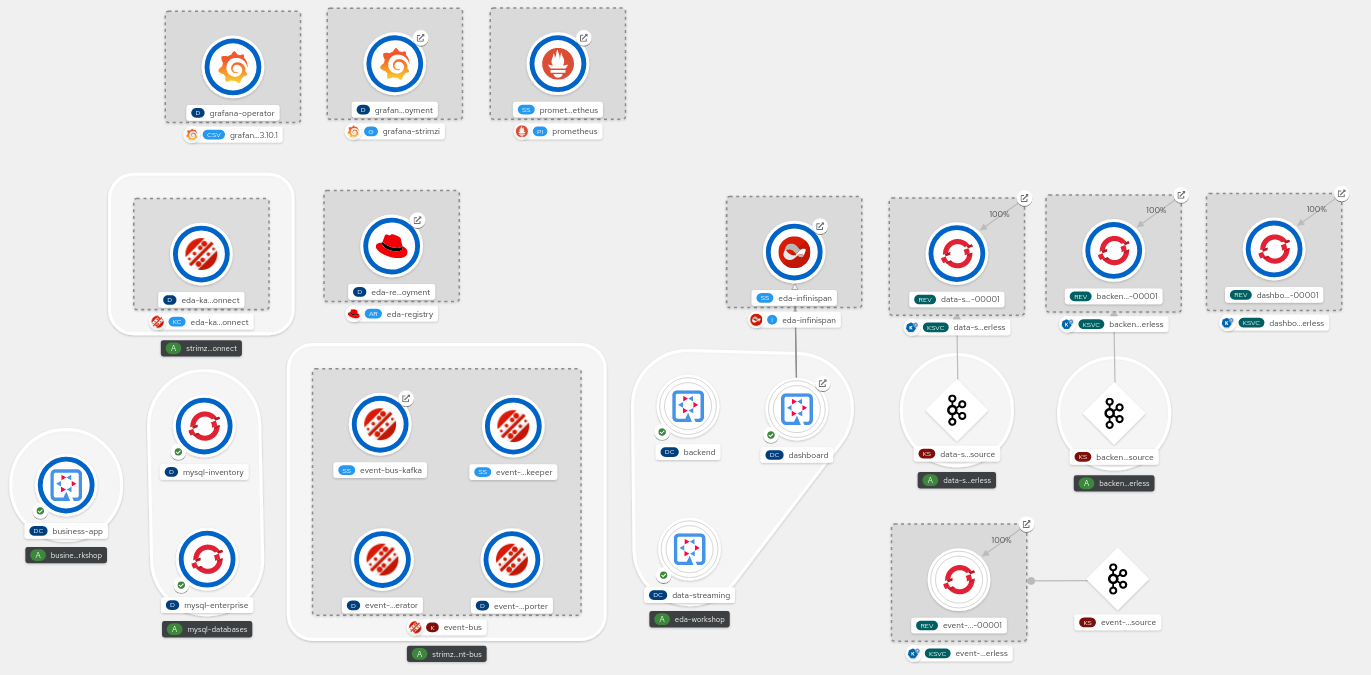
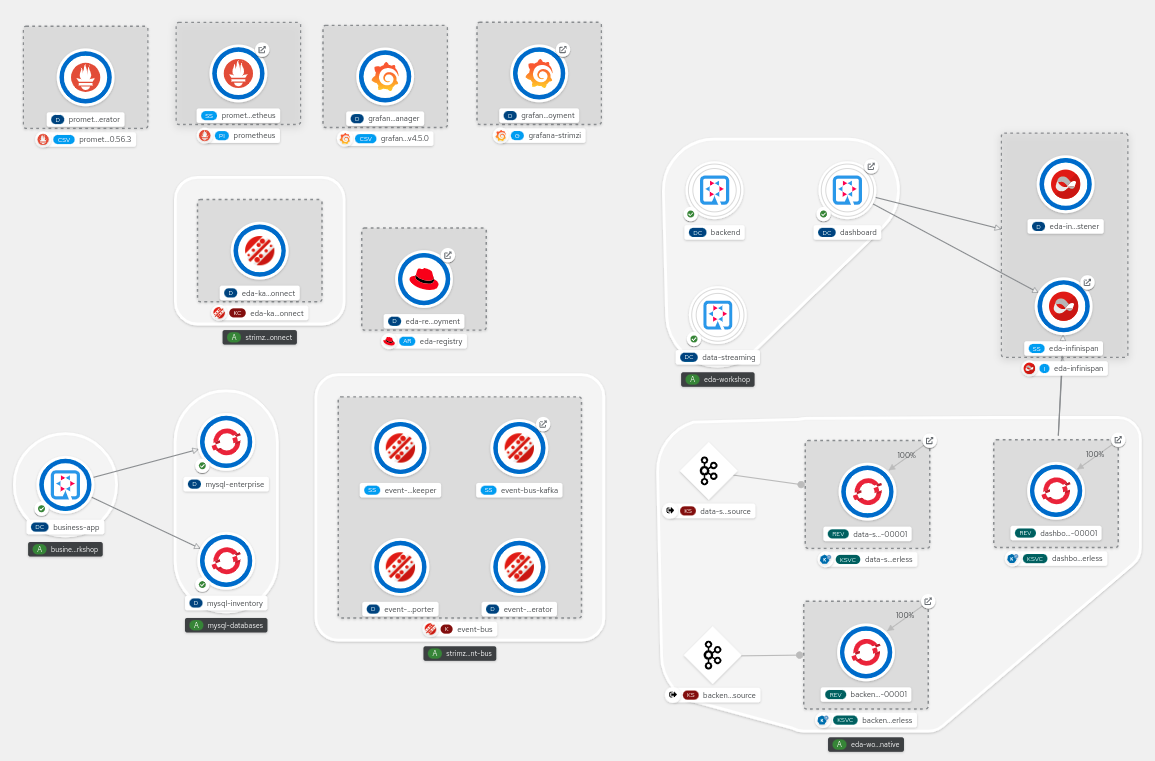
📝 Updated to OpenShift 4.10

diff --git a/14-serverless/README.md b/14-serverless/README.md
@@ -34,22 +34,22 @@ Also you could check the pods in `knative-serving` namespace:
 
 ```shell
 ❯ oc get pods -n knative-serving
-NAME                                                     READY   STATUS      RESTARTS   AGE
-activator-f68c6fb67-krm9n                                2/2     Running     0          100s
-activator-f68c6fb67-sgfrr                                2/2     Running     0          86s
-autoscaler-98c9ffc79-6p2fg                               2/2     Running     0          69s
-autoscaler-98c9ffc79-zcv5k                               2/2     Running     0          100s
-autoscaler-hpa-6779db9d98-l7n2s                          2/2     Running     0          97s
-autoscaler-hpa-6779db9d98-pgzvn                          2/2     Running     0          97s
-controller-6c45ff7df8-c758h                              2/2     Running     0          67s
-controller-6c45ff7df8-rjmmv                              2/2     Running     0          91s
-domain-mapping-566454db5c-bgqdb                          2/2     Running     0          96s
-domainmapping-webhook-668d945dff-8kdmr                   2/2     Running     0          96s
-kn-cli-00001-deployment-85fdb79d4-lhxjv                  2/2     Running     0          47s
-kn-cli-00002-deployment-9f84df9b4-9r9nq                  2/2     Running     0          47s
-storage-version-migration-serving-serving-0.21.0-6tkmc   0/1     Completed   0          95s
-webhook-56f6d98499-9tb2f                                 2/2     Running     0          84s
-webhook-56f6d98499-fnb74                                 2/2     Running     0          99s
+NAME                                                    READY   STATUS      RESTARTS   AGE
+activator-67dcc8667f-pqdqm                              2/2     Running     0          2m4s
+activator-67dcc8667f-stbwz                              2/2     Running     0          2m4s
+autoscaler-5746cc94c7-7ktxn                             2/2     Running     0          2m4s
+autoscaler-5746cc94c7-kknnt                             2/2     Running     0          2m4s
+autoscaler-hpa-5668d4cbd9-jqtlz                         2/2     Running     0          2m1s
+autoscaler-hpa-5668d4cbd9-p2wc4                         2/2     Running     0          2m1s
+controller-7f4dff8dbf-8l8hl                             2/2     Running     0          95s
+controller-7f4dff8dbf-mf8r8                             2/2     Running     0          114s
+domain-mapping-55cd8bf549-582nj                         2/2     Running     0          2m3s
+domain-mapping-55cd8bf549-sr2s2                         2/2     Running     0          2m3s
+domainmapping-webhook-688cc48f5c-g2ltk                  2/2     Running     0          2m3s
+domainmapping-webhook-688cc48f5c-t6bc6                  2/2     Running     0          2m3s
+storage-version-migration-serving-serving-1.1.2-xpt7d   0/1     Completed   0          2m1s
+webhook-6644cfd46b-dzkr2                                2/2     Running     0          2m2s
+webhook-6644cfd46b-qggtr                                2/2     Running     0          2m2s
 ```
 
 ## Deploying Eventing Services
@@ -82,19 +82,32 @@ Also you could check the pods in `knative-eventing` namespace:
 
 ```shell
 ❯ oc get pods -n knative-eventing
-NAME                                          READY   STATUS      RESTARTS   AGE
-eventing-controller-6ddfbbb6b9-8xmp7          2/2     Running     0          2m13s
-eventing-webhook-6c8ccf95b6-72ljw             2/2     Running     0          2m12s
-imc-controller-56dbdcf559-7k6j2               2/2     Running     0          2m8s
-imc-dispatcher-747c575f59-z5jjh               2/2     Running     0          2m7s
-kafka-ch-controller-854d74bc7f-fztfq          1/1     Running     0          32s
-kafka-controller-manager-7dd57996c-8tlsk      1/1     Running     0          31s
-kafka-webhook-775dcbd549-875p2                1/1     Running     0          32s
-mt-broker-controller-5bb8459547-25xnf         2/2     Running     0          2m6s
-mt-broker-filter-79cf4cd577-57lwd             2/2     Running     0          2m7s
-mt-broker-ingress-868f47567c-fm5zf            2/2     Running     0          2m6s
-sugar-controller-6cf9545794-bsqkd             2/2     Running     0          2m6s
-v0.21-kafka-storage-version-migration-tl687   0/1     Completed   0          31s
+NAME                                                      READY   STATUS      RESTARTS   AGE
+eventing-controller-7d8698996f-chbbh                      2/2     Running     0          64s
+eventing-controller-7d8698996f-tlhwz                      2/2     Running     0          64s
+eventing-webhook-5bb687ffc6-485gt                         2/2     Running     0          64s
+eventing-webhook-5bb687ffc6-6kmsj                         2/2     Running     0          64s
+imc-controller-79c8f69cf5-69zbs                           2/2     Running     0          60s
+imc-controller-79c8f69cf5-n9hmb                           2/2     Running     0          60s
+imc-dispatcher-6b8b49794d-84fzd                           2/2     Running     0          59s
+imc-dispatcher-6b8b49794d-ssptj                           2/2     Running     0          59s
+kafka-ch-controller-78fb88fddc-p5p4z                      2/2     Running     0          80s
+kafka-controller-995bb5d97-6kw8p                          2/2     Running     0          77s
+kafka-controller-post-install-1.22.0-f9gmz                0/1     Completed   0          79s
+kafka-source-dispatcher-6cc878c59c-bkns7                  2/2     Running     0          79s
+kafka-webhook-855968c6f-vqrw9                             2/2     Running     0          80s
+kafka-webhook-eventing-558cfdc7b6-4tbjr                   2/2     Running     0          79s
+knative-kafka-storage-version-migrator-1.22.0-qkv2w       0/1     Completed   0          79s
+mt-broker-controller-bd467886b-852ns                      2/2     Running     0          57s
+mt-broker-controller-bd467886b-b7qvj                      2/2     Running     0          57s
+mt-broker-filter-6b944bf9bb-9ln7m                         2/2     Running     0          58s
+mt-broker-filter-6b944bf9bb-cqrw8                         2/2     Running     0          58s
+mt-broker-ingress-7b446c5678-r2lhh                        2/2     Running     0          58s
+mt-broker-ingress-7b446c5678-w7l8z                        2/2     Running     0          58s
+storage-version-migration-eventing-eventing-1.1.0-bqqrs   0/1     Completed   0          57s
+storage-version-migration-kafka-channel-1.22.0-4ffbm      0/1     Completed   0          79s
+sugar-controller-547b949d59-dvwl5                         2/2     Running     0          57s
+sugar-controller-547b949d59-sfrnp                         2/2     Running     0          57s
 ```
 
 Deploy sample KafkaTopic for testing proposal:
@@ -115,11 +128,11 @@ You could check the Application Serverless Services
 
 ```shell
 ❯ kn service list
-NAME                        URL                                                                                           LATEST                            AGE    CONDITIONS   READY   REASON
-backend-serverless          http://backend-serverless-eda-workshop.apps.cluster-1498.1498.sandbox380.opentlc.com          backend-serverless-00001          98s    3 OK / 3     True    
-dashboard-serverless        http://dashboard-serverless-eda-workshop.apps.cluster-1498.1498.sandbox380.opentlc.com        dashboard-serverless-00001        98s    3 OK / 3     True    
-data-streaming-serverless   http://data-streaming-serverless-eda-workshop.apps.cluster-1498.1498.sandbox380.opentlc.com   data-streaming-serverless-00001   98s    3 OK / 3     True    
-event-display-serverless    http://event-display-serverless-eda-workshop.apps.cluster-1498.1498.sandbox380.opentlc.com    event-display-serverless-00001    113s   3 OK / 3     True
+NAME                        URL                                                                      LATEST                            AGE    CONDITIONS   READY
+backend-serverless          http://backend-serverless-eda-workshop.apps.sandbox.opentlc.com          backend-serverless-00001          98s    3 OK / 3     True    
+dashboard-serverless        http://dashboard-serverless-eda-workshop.apps.sandbox.opentlc.com        dashboard-serverless-00001        98s    3 OK / 3     True    
+data-streaming-serverless   http://data-streaming-serverless-eda-workshop.apps.sandbox.opentlc.com   data-streaming-serverless-00001   98s    3 OK / 3     True    
+event-display-serverless    http://event-display-serverless-eda-workshop.apps.sandbox.opentlc.com    event-display-serverless-00001    113s   3 OK / 3     True
 ```
 
 Deploy Kafka Sources to consume messages from Kafka to start up the services
@@ -138,13 +151,14 @@ data-streaming-kafka-source   ["dbserver02.enterprise.accounts","dbserver02.ente
 event-display-kafka-source    ["eda.cloud.events"]                                                                                                                                 ["event-bus-kafka-bootstrap.eda-workshop.svc:9092"]   True             4m26s
 ```
 
-Now every time a new message is sent to `eda.cloud.events` topic or `eda.events.alerts` or `eda.events.aggregate-metrics`, the message will be processed by a `event-display` instance or the dashboard-serverless instance:
+Now every time a new message is sent to `eda.cloud.events` topic or `eda.events.alerts` or `eda.events.aggregate-metrics`, the message
+will be processed by a `event-display` instance or the dashboard-serverless instance:
 
 To send messages to events topic
 
 ```shell
 ❯ oc run eda-serverless-kafka-producer -ti \
- --image=registry.redhat.io/amq7/amq-streams-kafka-28-rhel8:1.8.0 \
+ --image=registry.redhat.io/amq7/amq-streams-kafka-31-rhel8:2.1.0 \
  --rm=true --restart=Never \
  -- bin/kafka-console-producer.sh \
  --broker-list event-bus-kafka-bootstrap.eda-workshop.svc:9092 \
@@ -181,16 +195,16 @@ execute the following commands:
 To update `backend-serverless` service:
 
 ```shell
-kn service update backend-serverless --image image-registry.openshift-image-registry.svc:5000/eda-workshop/backend:2.3.0-SNAPSHOT
+kn service update backend-serverless --image image-registry.openshift-image-registry.svc:5000/eda-workshop/backend:2.10.1-SNAPSHOT
 ```
 
 To update `data-streaming-serverless` service:
 
 ```shell
-kn service update data-streaming-serverless --image image-registry.openshift-image-registry.svc:5000/eda-workshop/data-streaming:2.3.0-SNAPSHOT
+kn service update data-streaming-serverless --image image-registry.openshift-image-registry.svc:5000/eda-workshop/data-streaming:2.10.1-SNAPSHOT
 ```
 
 ## Main References
 
-[Installing Knative Serving](https://docs.openshift.com/container-platform/4.7/serverless/admin_guide/installing-knative-serving.html)
-[Installing Knative Eventing](https://docs.openshift.com/container-platform/4.7/serverless/admin_guide/installing-knative-eventing.html)
+[Installing Knative Serving](https://docs.openshift.com/container-platform/4.10/serverless/install/installing-knative-serving.html)
+[Installing Knative Eventing](https://docs.openshift.com/container-platform/4.10/serverless/install/installing-knative-eventing.html)

diff --git a/01-operators/README.md b/01-operators/README.md
@@ -22,24 +22,23 @@ from any namespaces in the cluster.
 
 ```shell
 ❯ oc get pod -n openshift-operators
-NAME                                                  READY   STATUS    RESTARTS   AGE
-amq-streams-cluster-operator-v1.8.0-75f8c6f46c-s7mcb  1/1     Running   0          25h
-apicurio-registry-operator-576d45bbd9-jqdcb           1/1     Running   0          2m36s
-infinispan-operator-5c77fcfbc9-wg4ws                  1/1     Running   0          2m40s
-knative-openshift-9d6b46dcf-2dfdz                     1/1     Running   0          27h
-knative-openshift-ingress-cbfb59bc7-qk56g             1/1     Running   0          27h
-knative-operator-55b5877c97-m4gtn                     1/1     Running   0          27h
+NAME                                                      READY   STATUS    RESTARTS   AGE
+amq-streams-cluster-operator-v2.1.0-4-7f66787968-jhc55    1/1     Running   0          6h8m
+apicurio-registry-operator-55bb56dd6-5rdgc                1/1     Running   0          6h7m
+infinispan-operator-controller-manager-5d9d4ddf76-kk4sb   1/1     Running   0          6h7m
+knative-openshift-57fc57698b-c8vmj                        1/1     Running   0          6h7m
+knative-openshift-ingress-5589fb9d7-sblb4                 1/1     Running   0          6h7m
+knative-operator-957c8745-bl8t9                           1/1     Running   0          6h7m
 ```
 
 To check the subscription statuses:
 
 ```shell
 ❯ oc get csv
-NAME                               DISPLAY                                           VERSION   REPLACES                      PHASE
-amqstreams.v1.8.0                  Red Hat Integration - AMQ Streams                 1.8.0     amqstreams.v1.7.3                  Succeeded
-datagrid-operator.v8.2.3           Data Grid                                         8.2.3     datagrid-operator.v8.2.2           Succeeded
-serverless-operator.v1.16.0        Red Hat OpenShift Serverless                      1.16.0    serverless-operator.v1.15.0        Succeeded
-service-registry-operator.v2.0.1   Red Hat Integration - Service Registry Operator   2.0.1     service-registry-operator.v2.0.0   Succeeded
+amqstreams.v2.1.0-4                               Red Hat Integration - AMQ Streams                 2.1.0-4                amqstreams.v2.1.0-3                               Succeeded
+datagrid-operator.v8.3.6                          Data Grid                                         8.3.6                  datagrid-operator.v8.3.4                          Succeeded
+serverless-operator.v1.23.0                       Red Hat OpenShift Serverless                      1.23.0                 serverless-operator.v1.22.0                       Succeeded
+service-registry-operator.v2.0.5-0.1655396591.p   Red Hat Integration - Service Registry Operator   2.0.5+0.1655396591.p   service-registry-operator.v2.0.5-0.1652887585.p   Succeeded
 ```
 
 ## Local Operators
@@ -55,9 +54,10 @@ from only that namespace.
 
 ```shell
 ❯ oc get pod -n eda-workshop
-NAME                                         READY   STATUS             RESTARTS   AGE
-grafana-operator-5ccd457bc6-rxs6t            1/1     Running            0          28h
-prometheus-operator-7d874db8c-rpfmm          1/1     Running            0          28h
+NAME                                                   READY   STATUS    RESTARTS      AGE
+grafana-operator-controller-manager-59ccc6df4d-qq94l   2/2     Running   0             24m
+prometheus-operator-85f4f9fddc-nwjdv                   1/1     Running   0             24m
+prometheus-prometheus-0                                2/2     Running   1 (23m ago)   24m
 ```
 
 To check the subscription statuses:
@@ -65,6 +65,6 @@ To check the subscription statuses:
 ```shell
 ❯ oc get csv
 NAME                               DISPLAY                VERSION   REPLACES                      PHASE
-grafana-operator.v3.10.2           Grafana Operator       3.10.2    grafana-operator.v3.10.1      Succeeded
-prometheusoperator.0.47.0          Prometheus Operator    0.47.0    prometheusoperator.0.37.0     Succeeded
+grafana-operator.v4.4.1            Grafana Operator       4.4.1     grafana-operator.v4.4.0       Succeeded
+prometheusoperator.0.56.3          Prometheus Operator    0.56.3    prometheusoperator.0.47.0     Succeeded
 ```

diff --git a/README.md b/README.md
@@ -33,15 +33,15 @@ the root of this repository.
 
 ## Prepare OpenShift
 
-This architecture has been tested in Red Hat OpenShift Container Platform 4.8 version and the following
+This architecture has been tested in Red Hat OpenShift Container Platform 4.10 version and the following
 operators:
 
-* Red Hat Integration - AMQ Streams 1.8.0
-* Red Hat Integration - Service Registry 2.0.1
-* Red Hat Data Grid 8.2.3
-* Red Hat OpenShift Serverless 1.16.0
-* Prometheus 0.47.0
-* Grafana 3.10.3
+* Red Hat Integration - AMQ Streams 2.1.0
+* Red Hat Integration - Service Registry 2.0.5
+* Red Hat Data Grid 8.3.6
+* Red Hat OpenShift Serverless 1.23.0
+* Prometheus 0.56.3
+* Grafana 4.4.1
 
 As a normal user in your OpenShift cluster, create a ```eda-workshop``` namespace:
 
@@ -52,7 +52,7 @@ As a normal user in your OpenShift cluster, create a ```eda-workshop``` namespac
 
 This workshop requires deploy many different components and
 it is needed to have enough resources. This workshop was
-tested in "OpenShift 4.7 Workshop (Small)" Service provided
+tested in "OpenShift 4.10 Workshop (Small)" Service provided
 in the [Red Hat Product Demo System](https://rhpds.redhat.com/) with a single worker node of AWS
 instance type `m5a.4xlarge`. Other node topologies and types should work.
 

diff --git a/15-native-services/README.md b/15-native-services/README.md
@@ -35,9 +35,9 @@ Or if you want to reuse the same services but using the native version, you coul
 with image you want to use:
 
 ```shell
-kn service update data-streaming-serverless --image quay.io/eda-workshop/data-streaming:2.3.0-SNAPSHOT
-kn service update backend-serverless --image quay.io/eda-workshop/backend:2.3.0-SNAPSHOT
-kn service update dashboard-serverless --image quay.io/eda-workshop/dashboard:2.3.0-SNAPSHOT
+kn service update data-streaming-serverless --image quay.io/eda-workshop/data-streaming:2.10.1-SNAPSHOT
+kn service update backend-serverless --image quay.io/eda-workshop/backend:2.10.1-SNAPSHOT
+kn service update dashboard-serverless --image quay.io/eda-workshop/dashboard:2.10.1-SNAPSHOT
 ```
 
 To deploy new `KafkaSource` source for these new services:
